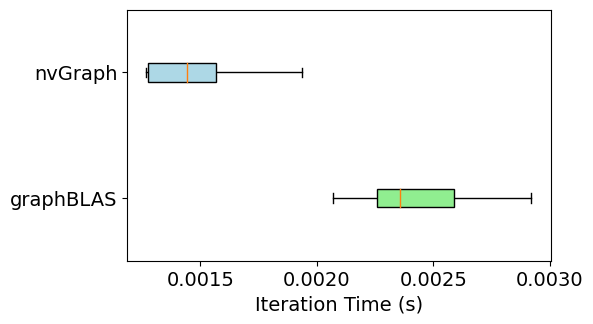
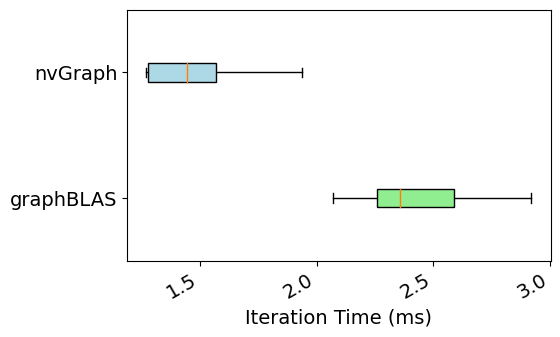
Switch to ms for times, make sure they don't overlap

Changed region(s): [[0.0, 0.0309, 1.0, 0.9877], [0.9714, 0.0309, 1.0, 0.0617]]

diff --git a/plotShortestPathTimes.py b/plotShortestPathTimes.py
@@ -27,7 +27,7 @@ def load_gb_data(file):
     r = reader(f)
     for node, time in r:
       time = float(time)
-      data.append(time)
+      data.append(time * 1000)
   return data
 
 def load_cu_data(file):
@@ -36,7 +36,8 @@ def load_cu_data(file):
     for d in f.readlines():
       d = int(d)
       # data is in # of microseconds
-      data.append(d / 1000000)
+      data.append(d / 1000)
+      # data.append(d / 1000000)
   return data
 
 def plotShortestPathTimes(graph):
@@ -49,8 +50,9 @@ def plotShortestPathTimes(graph):
   for patch, color in zip(bp['boxes'], colors):
       patch.set_facecolor(color)
 
-  ax.set_xlabel("Iteration Time (s)")
+  ax.set_xlabel("Iteration Time (ms)")
   # ax.set_xscale ('log')
+  plt.setp(ax.get_xticklabels(), rotation=30, horizontalalignment='right')
   # ax.set_xlabel("")
   # ax.legend(bbox_to_anchor=(1,.6), loc="right", columnspacing=1)
   plt.savefig("./figs/shortestpath_iter_times/sp-times-{}.png".format(graph), bbox_inches="tight")
